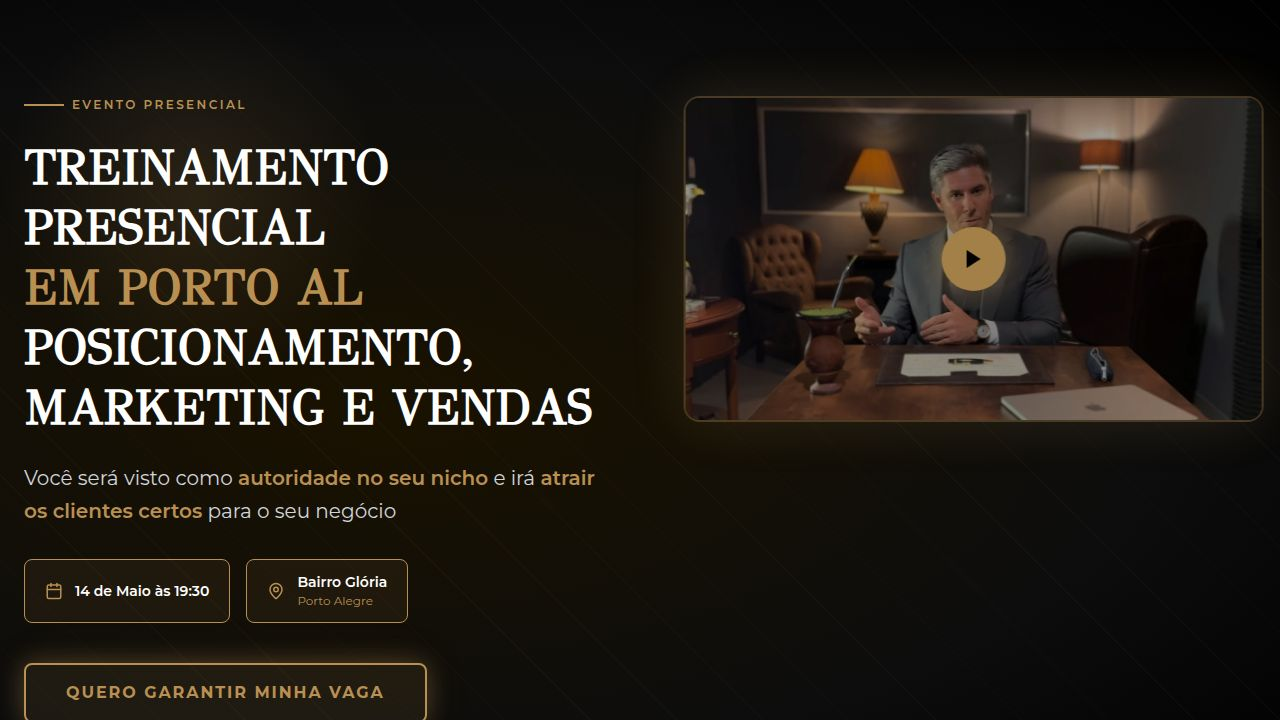
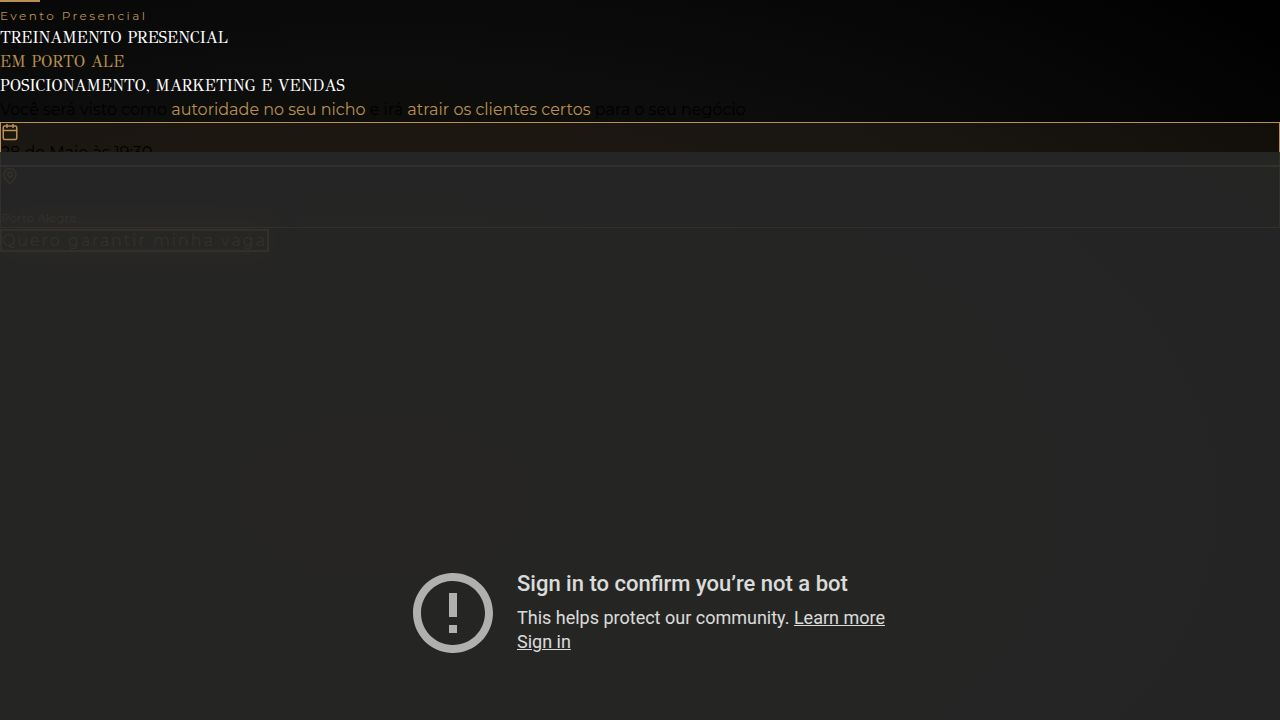
Update landing page to match reference site and fix build issues
Correct package naming in `package.json`, remove conflicting `pnpm-workspace.yaml`, and adjust `vite.config.ts` to use the PORT environment variable for correct build and deployment.

Replit-Commit-Author: Agent
Replit-Commit-Session-Id: aa02e581-d945-4a9a-9a16-124b8f74d394
Replit-Commit-Checkpoint-Type: full_checkpoint
Replit-Commit-Event-Id: 89e5c871-b1b7-4bfb-b9d7-32b8db87dbe2
Replit-Commit-Screenshot-Url: https://storage.googleapis.com/screenshot-production-us-central1/65ae75bc-3c62-45e9-9e74-268869dfc7e3/aa02e581-d945-4a9a-9a16-124b8f74d394/fTUXeOc
Replit-Helium-Checkpoint-Created: true

diff --git a/artifacts/alianca-empreendedora/vite.config.ts b/artifacts/alianca-empreendedora/vite.config.ts
@@ -16,7 +16,7 @@ export default defineConfig({
     emptyOutDir: true,
   },
   server: {
-    port: 5173,
+    port: process.env.PORT ? parseInt(process.env.PORT) : 5173,
     strictPort: true,
     host: "0.0.0.0",
     allowedHosts: true,